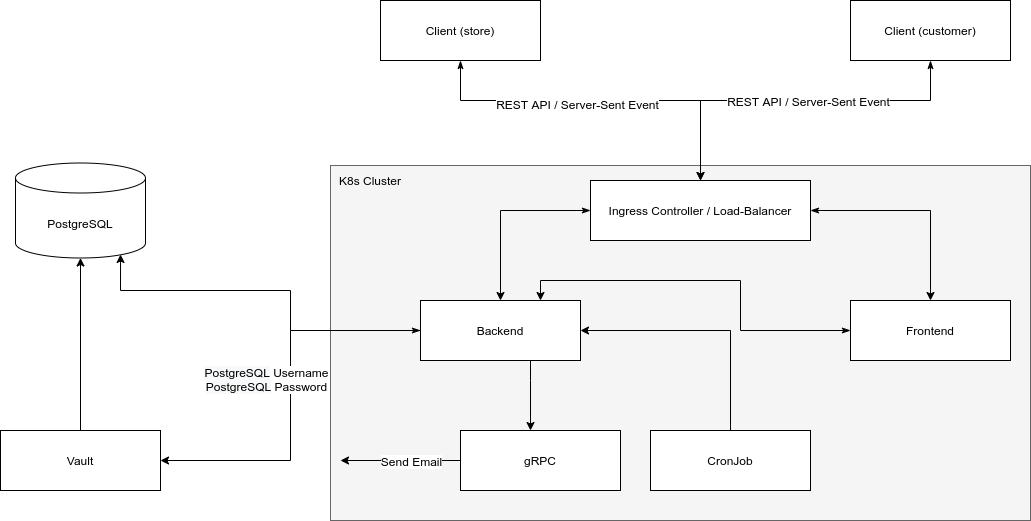
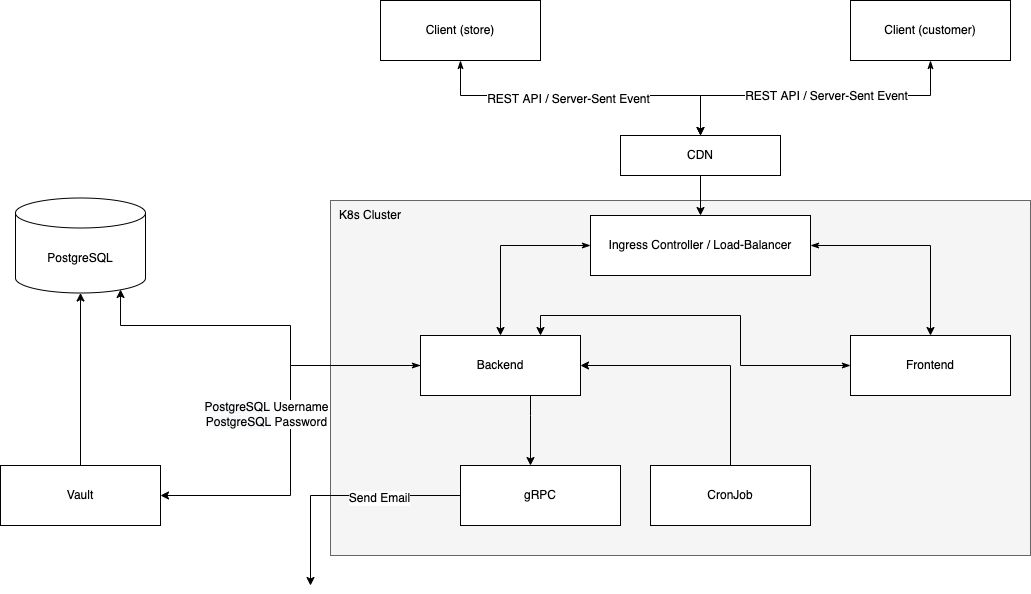
update readme file

diff --git a/README.md b/README.md
@@ -63,7 +63,7 @@ Every account will persist for 24 hrs. After 24 hrs, Queue System will suspend t
 
 # Architecture
 ![](https://raw.githubusercontent.com/Jerry0420/queue-system/main/images/architecture.png)
-Queue System setups a K8s cluster inside an AWS EC2 instance with MicroK8s and uses `Nginx Ingress Controller` and `MetalLB` (Load-Balancer) to expose Queue System service to the outside world.
+Queue System setups a K8s cluster inside an AWS EC2 instance with MicroK8s and uses `Nginx Ingress Controller` and `MetalLB` (Load-Balancer) to expose Queue System service to the CDN.
 
 *p.s. Considering the cost, I used MicroK8s to create the k8s cluster and MetalLB as load-balancer instead of using AWS EKS and AWS ELB.*
 
